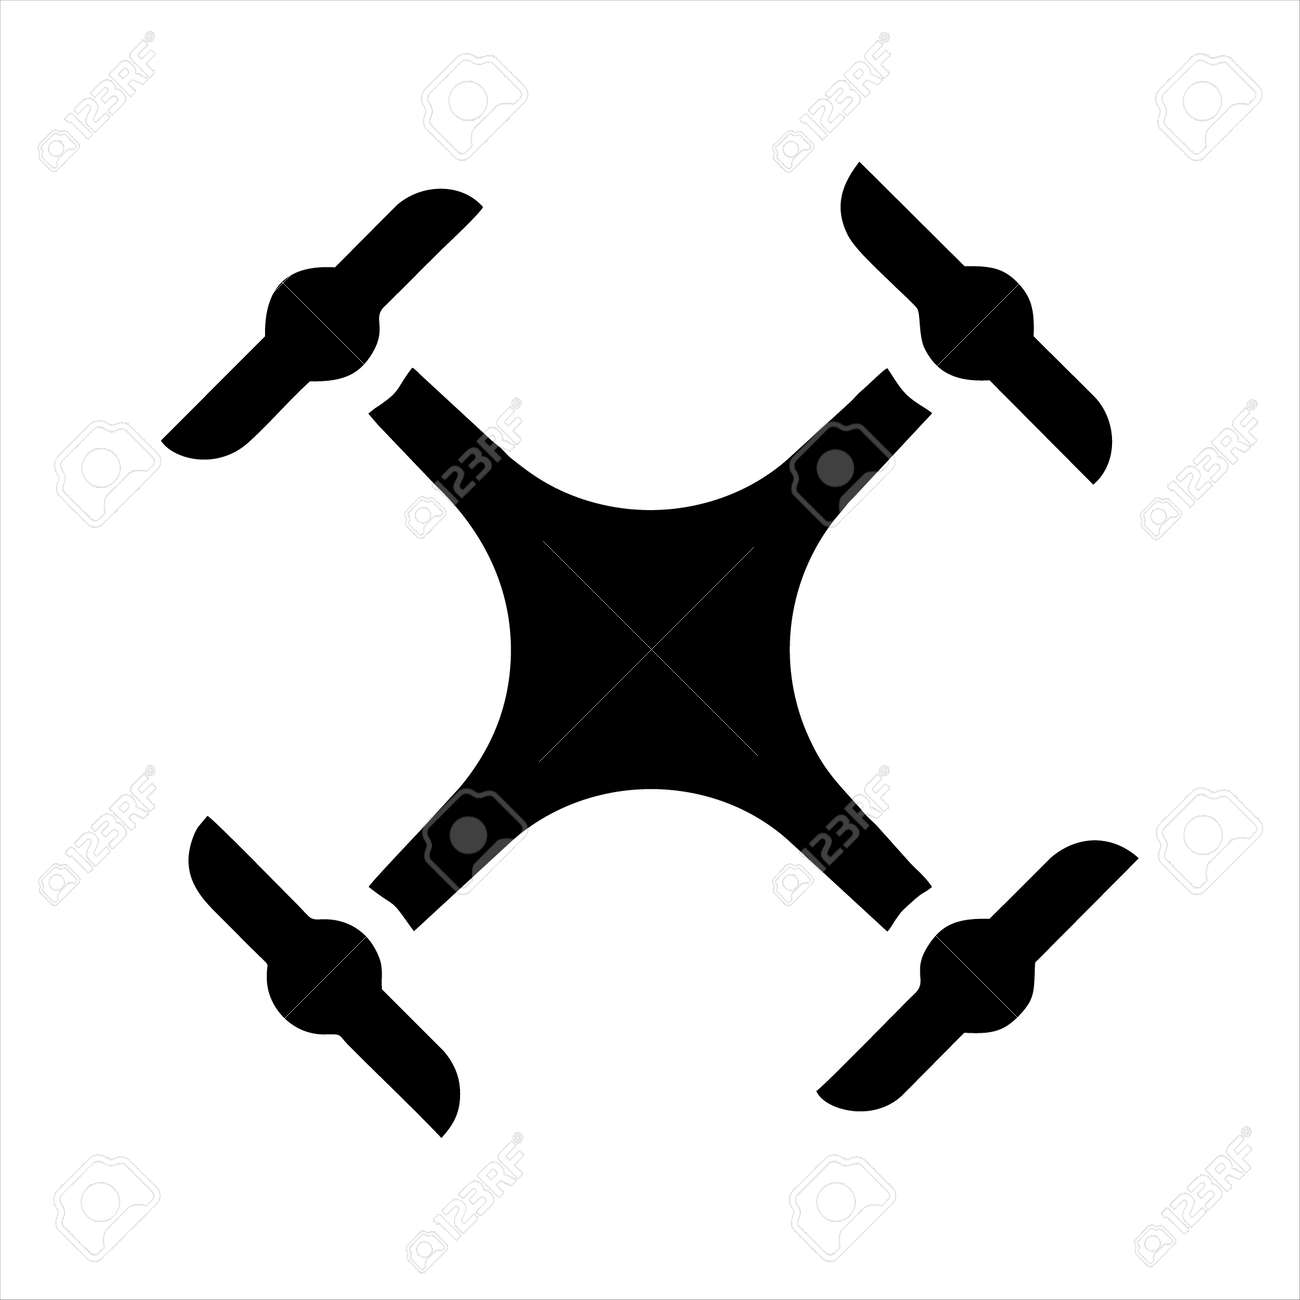
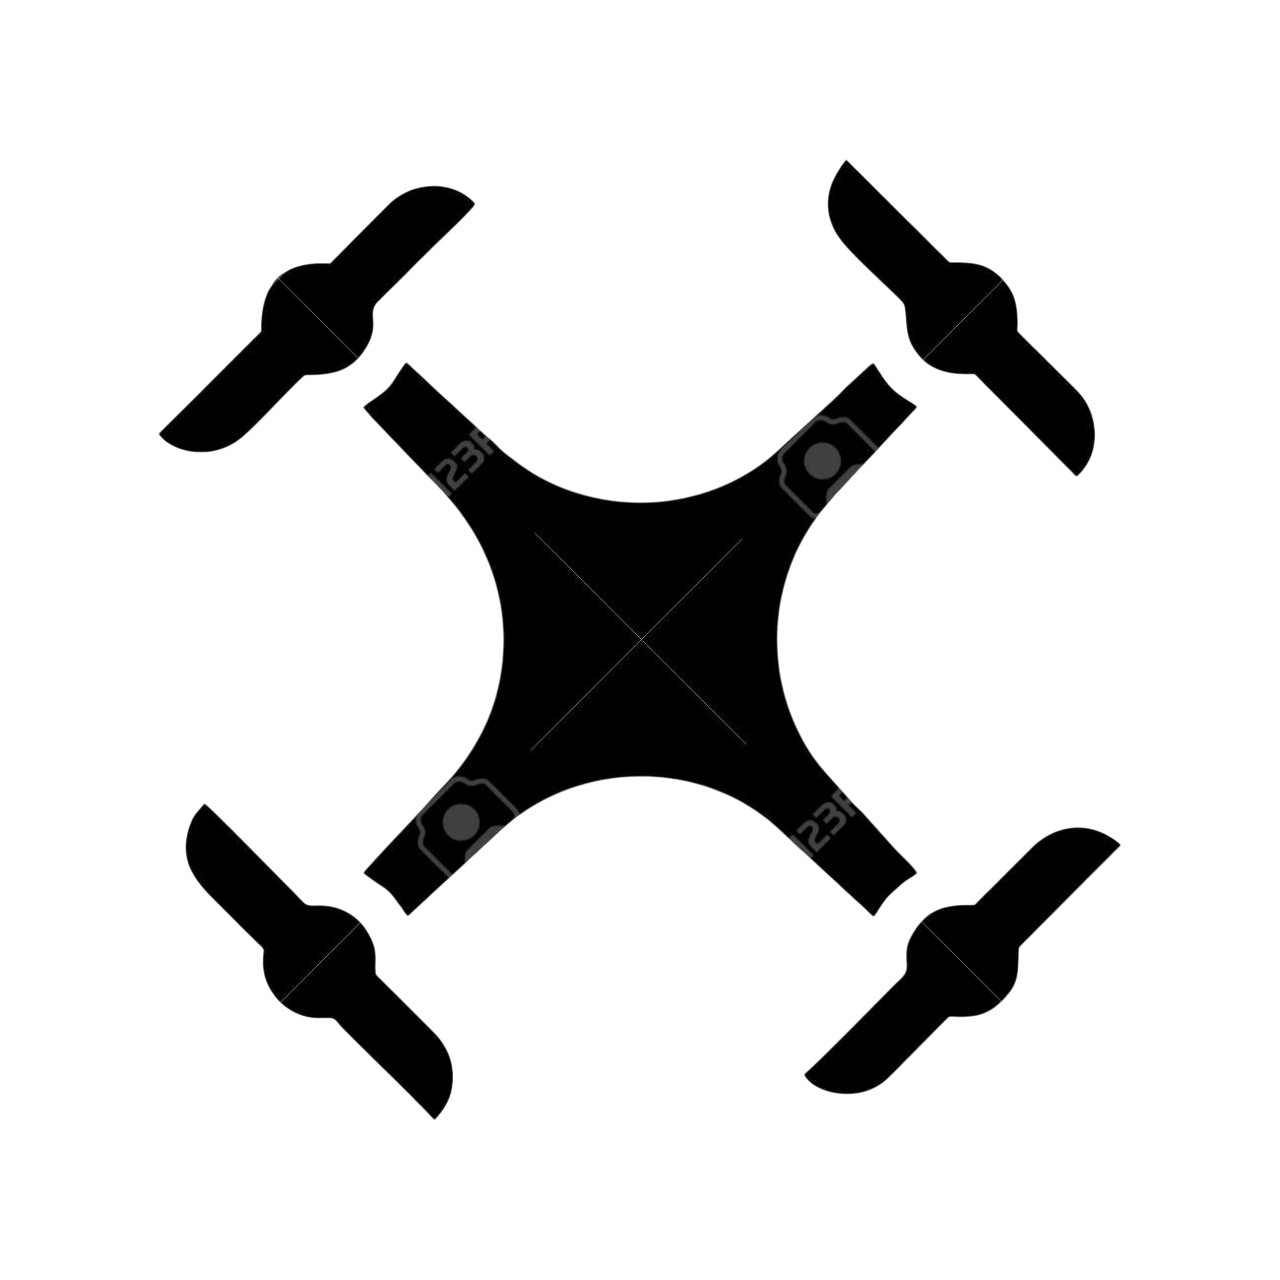
Drone läpinäkyväksi

diff --git a/demola-drone-ui/src/pages/Home.js b/demola-drone-ui/src/pages/Home.js
@@ -12,7 +12,7 @@ export default function Home() {
     <div className="home-container">
       <header className="home-header">
         <h1>Dronebase Dashboard</h1>
-        <p>Monitor the status of your drones and batteries in real time.</p>
+        <p>Monitor the status of your drone and batteries in real time.</p>
       </header>
       
       <div className="status-section">

diff --git a/demola-drone-ui/src/components/BatteryStatus.js b/demola-drone-ui/src/components/BatteryStatus.js
@@ -6,7 +6,7 @@ export default function BatteryStatus({ level1, level2 }) {
 
   return (
     <div className="BatteryStatus">
-      <h2>Battery Status</h2>
+      <h2>Base Battery Status</h2>
       <p>Battery 1: {level1}% - {getBatteryStatus(level1)}</p>
       <p>Battery 2: {level2}% - {getBatteryStatus(level2)}</p>
     </div>
